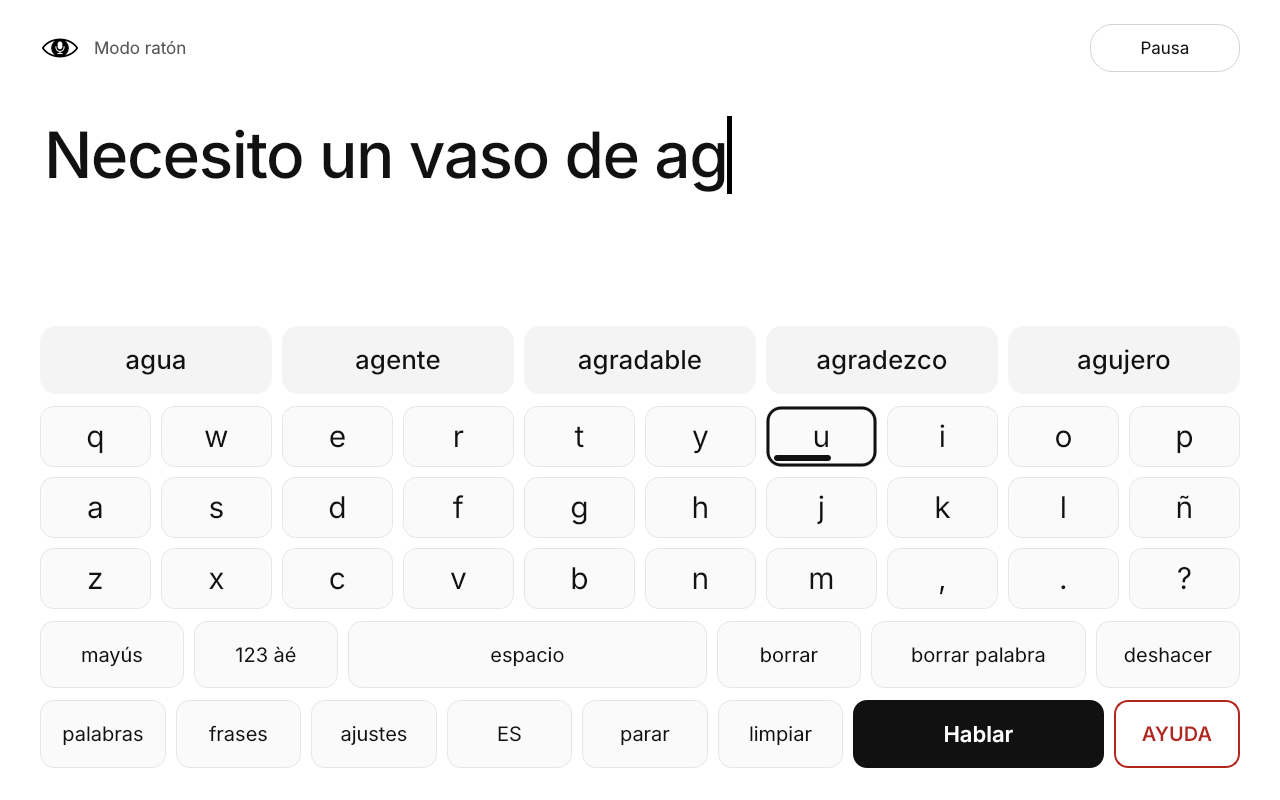
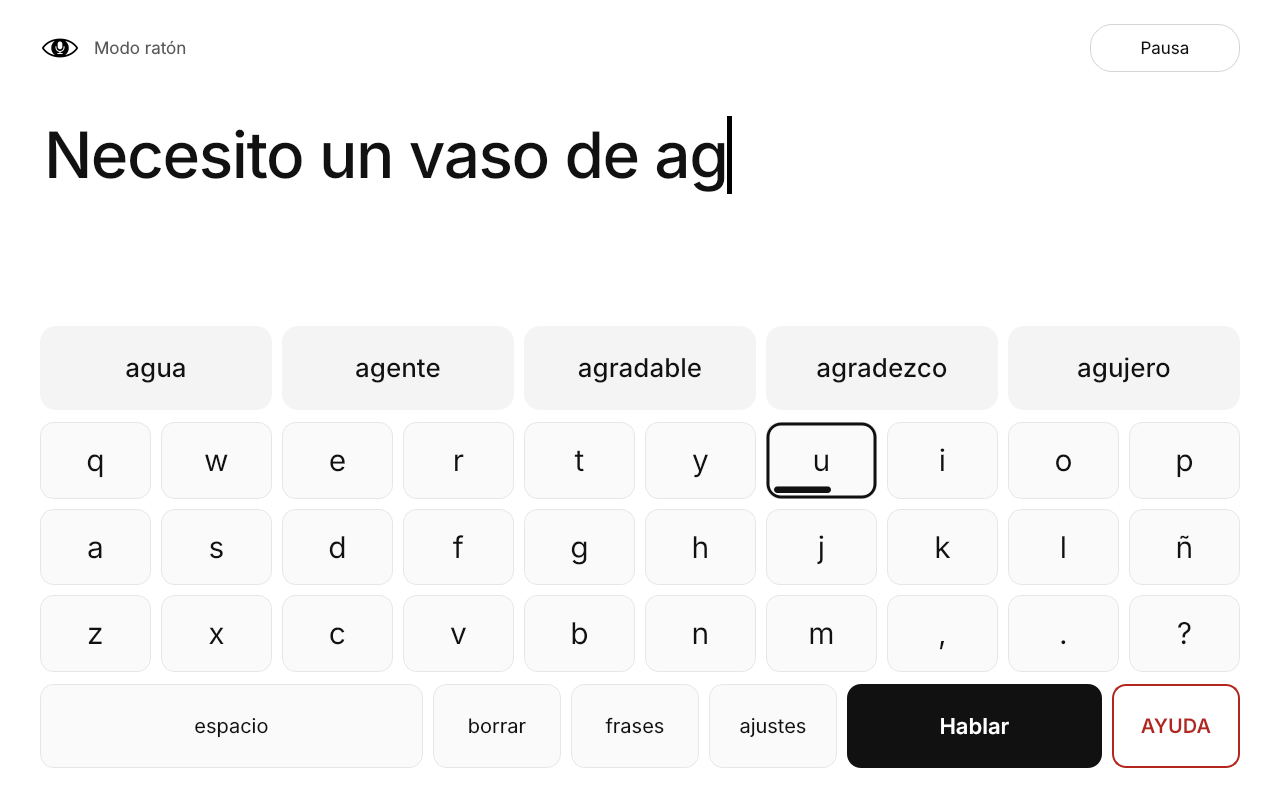
Main screen matches design A: one control row
Space, delete, phrases, settings, Speak (Stop while talking) and HELP.
Shift, symbols, delete word, undo, word mode and clear move to a tools
row in Settings. Version 0.7.0.

Claude-Session: https://claude.ai/code/session_01PSBuc5eMpT53njpukZxYnN

diff --git a/looksay/ui/keyboard.py b/looksay/ui/keyboard.py
@@ -62,33 +62,22 @@ class KeyboardPanel(QWidget):
         self.stack.addWidget(self.words_page)
         root.addWidget(self.stack, 3)
 
-        self.shift_btn = self._button("", "special", "shift")
-        self.symbols_btn = self._button("", "special", "symbols")
+        # One control row, as in the "Papel" design: space, delete, phrases, settings, Speak, HELP.
+        # Speak turns into Stop while the voice is talking. The rarer editing tools (shift, symbols,
+        # delete word, undo, word mode, clear) live in Settings, so the main screen stays calm.
         self.space_btn = self._button("", "special", "space")
         self.backspace_btn = self._button("", "special", "backspace")
-        self.delete_word_btn = self._button("", "special", "delete_word")
-        self.undo_btn = self._button("", "special", "undo")
-        edit_row = QWidget()
-        edit_row.setLayout(_row(
-            [self.shift_btn, self.symbols_btn, self.space_btn, self.backspace_btn, self.delete_word_btn, self.undo_btn],
-            [2, 2, 5, 2, 3, 2],
-        ))
-        root.addWidget(edit_row, 1)
-
-        self.mode_btn = self._button("", "special", "mode")
         self.phrases_btn = self._button("", "special", "phrases")
-        self.speak_btn = self._button("", "primary", "speak")
-        self.stop_btn = self._button("", "special", "stop")
-        self.clear_btn = self._button("", "special", "clear")
-        self.language_btn = self._button("", "special", "language")
         self.settings_btn = self._button("", "special", "settings")
+        self.speak_btn = self._button("", "primary", "speak")
         self.help_btn = self._button("", "emergency", "help")
         control_row = QWidget()
-        control_row.setLayout(_row([
-            self.mode_btn, self.phrases_btn, self.settings_btn, self.language_btn, self.stop_btn, self.clear_btn,
-            self.speak_btn, self.help_btn,
-        ], [1, 1, 1, 1, 1, 1, 2, 1]))
+        control_row.setLayout(_row(
+            [self.space_btn, self.backspace_btn, self.phrases_btn, self.settings_btn, self.speak_btn, self.help_btn],
+            [3, 1, 1, 1, 2, 1],
+        ))
         root.addWidget(control_row, 1)
+        self.speaking = False
 
         self._letter_buttons: list[GazeButton] = []
         self.rebuild_letters()
@@ -128,7 +117,11 @@ class KeyboardPanel(QWidget):
             base = b.property("base")
             b.setText(base.upper() if upper and base.isalpha() else base)
             b.setProperty("value", b.text())
-        self.shift_btn.set_role("active" if upper else "special")
+
+    def set_speaking(self, speaking: bool) -> None:
+        if speaking != self.speaking:
+            self.speaking = speaking
+            self.speak_btn.setText(tr("stop" if speaking else "speak", self.lang))
 
     # ------------------------------------------------------------ state
     def set_language(self, lang: str) -> None:
@@ -167,17 +160,9 @@ class KeyboardPanel(QWidget):
 
     def retranslate(self) -> None:
         lang = self.lang
-        self.shift_btn.setText(tr("shift", lang))
-        self.symbols_btn.setText("abc" if self._symbols else ("123 " + ("àé" if lang != "en" else "?!")))
         self.space_btn.setText(tr("space", lang))
-        self.delete_word_btn.setText(tr("delete_word", lang))
-        self.undo_btn.setText(tr("undo", lang))
-        self.mode_btn.setText(tr("mode_words" if self.mode == "letters" else "mode_letters", lang))
-        self.phrases_btn.setText(tr("phrases", lang))
-        self.speak_btn.setText(tr("speak", lang))
         self.backspace_btn.setText(tr("delete", lang))
-        self.stop_btn.setText(tr("stop", lang))
-        self.clear_btn.setText(tr("clear", lang))
-        self.language_btn.setText(lang.upper())
+        self.phrases_btn.setText(tr("phrases", lang))
         self.settings_btn.setText(tr("settings", lang))
+        self.speak_btn.setText(tr("stop" if self.speaking else "speak", lang))
         self.help_btn.setText(tr("help", lang))

diff --git a/looksay/ui/pages.py b/looksay/ui/pages.py
@@ -130,9 +130,12 @@ class PhrasesPage(QWidget):
 
 
 # -------------------------------------------------------------------- settings
+KEYBOARD_TOOLS = ("shift", "symbols", "delete_word", "undo", "mode", "clear")
+
+
 class SettingsPage(QWidget):
     back = Signal()
-    command = Signal(str)  # calibrate, recenter, diagnostics, export, import, reset_settings, reset_data
+    command = Signal(str)  # key:<tool>, calibrate, recenter, diagnostics, export, import, reset_settings, reset_data
 
     def __init__(self, get_value: Callable[[str], Any], step_value: Callable[[str, int], None],
                  voice_names: Callable[[], list[str]], parent=None):
@@ -142,6 +145,7 @@ class SettingsPage(QWidget):
         self._step = step_value
         self._voice_names = voice_names
         self.lang = "en"
+        self._symbols, self._mode = False, "letters"
         self.group = SETTING_GROUPS[0]
         self.page = 0
 
@@ -183,6 +187,16 @@ class SettingsPage(QWidget):
         self.next_btn = GazeButton("", "small")
         self.prev_btn.clicked.connect(lambda: self._turn(-1))
         self.next_btn.clicked.connect(lambda: self._turn(1))
+        # Typing tools that are not on the main screen; each one returns to the keyboard.
+        self.tool_buttons: dict[str, GazeButton] = {}
+        for name in KEYBOARD_TOOLS:
+            b = GazeButton("", "small")
+            b.clicked.connect(lambda _=False, n=name: self.command.emit("key:" + n))
+            self.tool_buttons[name] = b
+        tools = QWidget()
+        tools.setLayout(_hbox(*self.tool_buttons.values()))
+        root.addWidget(tools, 1)
+
         self.command_buttons: dict[str, GazeButton] = {}
         rows = [[self.prev_btn, self.next_btn], []]
         for i, name in enumerate(("calibrate", "calibrate_head", "recenter", "diagnostics", "export", "import",
@@ -264,7 +278,22 @@ class SettingsPage(QWidget):
         self.next_btn.setText(tr("next_page", lang))
         for name, b in self.command_buttons.items():
             b.setText(tr(name, lang))
+        self.set_tool_state(self._symbols, self._mode)
         self.refresh()
+
+    def set_tool_state(self, symbols: bool, mode: str) -> None:
+        self._symbols, self._mode = symbols, mode
+        lang = self.lang
+        labels = {
+            "shift": tr("shift", lang),
+            "symbols": "abc" if symbols else ("123 " + ("àé" if lang != "en" else "?!")),
+            "delete_word": tr("delete_word", lang),
+            "undo": tr("undo", lang),
+            "mode": tr("mode_words" if mode == "letters" else "mode_letters", lang),
+            "clear": tr("clear", lang),
+        }
+        for name, b in self.tool_buttons.items():
+            b.setText(labels[name])
 
 
 _VALUE_KEYS = {

diff --git a/tests/test_ui.py b/tests/test_ui.py
@@ -77,6 +77,11 @@ def look_at(w, qapp, button, seconds=1.0):
     gaze(w, qapp, 0.5, 0.02, 0.2)  # look away at the canvas (no button)
 
 
+def open_tool(w, qapp, name):
+    look_at(w, qapp, w.keyboard.settings_btn)
+    look_at(w, qapp, w.settings_page.tool_buttons[name])
+
+
 def key(w, value):
     return next(b for b in w.keyboard._letter_buttons if b.property("base") == value)
 
@@ -98,14 +103,14 @@ def test_type_accept_suggestion_and_speak_by_gaze(window, qapp):
 def test_clear_requires_gaze_confirmation(window, qapp):
     w = window
     w.buffer.text = "Some text"
-    look_at(w, qapp, w.keyboard.clear_btn)
+    open_tool(w, qapp, "clear")
     assert w.confirm.isVisible() and w.buffer.text == "Some text"
     # Keys under the overlay must not be selectable.
     look_at(w, qapp, w.keyboard.space_btn)
     assert w.buffer.text == "Some text"
     look_at(w, qapp, w.confirm.no_btn)
     assert not w.confirm.isVisible() and w.buffer.text == "Some text"
-    look_at(w, qapp, w.keyboard.clear_btn)
+    open_tool(w, qapp, "clear")
     look_at(w, qapp, w.confirm.yes_btn)
     assert w.buffer.text == ""
 
@@ -142,18 +147,18 @@ def test_pause_only_allows_resume(window, qapp):
 def test_language_switch_keeps_text_and_changes_layout(window, qapp):
     w = window
     w.buffer.text = "Hello "
-    look_at(w, qapp, w.keyboard.language_btn)
+    w._on_key("language", "")
     assert w.lang == "es" and w.buffer.text == "Hello "
     assert any(b.property("base") == "ñ" for b in w.keyboard._letter_buttons)
     assert w.keyboard.speak_btn.text().endswith("Hablar")
-    look_at(w, qapp, w.keyboard.language_btn)
+    w._on_key("language", "")
     assert w.lang == "ca"
     assert any(b.property("base") == "ç" for b in w.keyboard._letter_buttons)
 
 
 def test_word_mode_and_phrases(window, qapp):
     w = window
-    look_at(w, qapp, w.keyboard.mode_btn)
+    open_tool(w, qapp, "mode")
     assert w.keyboard.mode == "words"
     word = w.keyboard.word_buttons[0]
     text = word.text()

diff --git a/looksay/ui/main_window.py b/looksay/ui/main_window.py
@@ -626,6 +626,7 @@ class MainWindow(QWidget):
 
     def _tick(self) -> None:
         self.ui_fps.tick()
+        self.keyboard.set_speaking(self.speech.is_speaking())
         now = time.monotonic()
         point, source, active, hold = self._current_point(now)
         self._last_source = source
@@ -737,6 +738,7 @@ class MainWindow(QWidget):
         else:
             self.keyboard.set_suggestions(fmt(self.predictor.suggest(prefix, prev, count)), count)
         self.keyboard.update_case(self.buffer.shift_active or (capitalize and not prefix))
+        self.settings_page.set_tool_state(self.keyboard._symbols, self.keyboard.mode)
 
     def _on_key(self, name: str, value: str) -> None:
         if name in CORRECTION_KEYS:
@@ -765,7 +767,10 @@ class MainWindow(QWidget):
             self._reload_phrases()
             self.pages.setCurrentWidget(self.phrases_page)
         elif name == "speak":
-            self.speak()
+            if self.speech.is_speaking():
+                self.speech.stop()
+            else:
+                self.speak()
         elif name == "stop":
             self.speech.stop()
         elif name == "clear":
@@ -839,7 +844,10 @@ class MainWindow(QWidget):
     # ============================================================= commands
     def _on_command(self, name: str) -> None:
         lang = self.lang
-        if name == "calibrate":
+        if name.startswith("key:"):
+            self.show_keyboard()
+            self._on_key(name[4:], "")
+        elif name == "calibrate":
             self.start_calibration("full")
         elif name == "calibrate_head":
             self.start_calibration("head")

diff --git a/looksay/__init__.py b/looksay/__init__.py
@@ -1,4 +1,4 @@
 """LookSay - offline gaze-based communication."""
 
-__version__ = "0.6.1"
+__version__ = "0.7.0"
 APP_NAME = "LookSay"

diff --git a/docs/MANUAL_TESTS.md b/docs/MANUAL_TESTS.md
@@ -10,9 +10,9 @@ screen, and the results (time, errors, comments).
 | 1 | First calibration | Fresh start → Settings ▸ Calibrate (9 points) → follow the dots → Accept by gaze | Finishes in under 30 s; the reported error is shown; the user can select "Accept" by gaze |
 | 2 | 5-point calibration | Settings ▸ Eye tracking ▸ Calibration points = 5 → Calibrate | Works; the gaze cursor follows the gaze over all 4 quadrants |
 | 3 | Typing | Type "I need water" with letters and suggestions only | No physical input; ≤ 2 wrong selections; record the time |
-| 4 | Corrections | Make a typo → ⌫, Del word, Undo | Each control does exactly one step |
+| 4 | Corrections | Make a typo → Delete; Settings → Delete word, Undo | Each control does exactly one step |
 | 5 | Word mode | Switch to Words, compose "I want to sleep" | Words insert with correct spacing and capitals |
-| 6 | Speech | Speak, Stop mid-sentence; Speak mode = Last sentence | Audio starts and stops; only the last sentence is read |
+| 6 | Speech | Speak, then Speak again (it reads Stop) mid-sentence; Speak mode = Last sentence | Audio starts and stops; only the last sentence is read |
 | 7 | Emergency | Select HELP from the keyboard and the first phrase on the phrases page | The emergency phrase is spoken at full volume within the dwell time; nothing is contacted automatically |
 | 8 | Face loss | Turn away or cover the camera while dwelling on a key | The status shows "Face not found"; no selection happens; tracking resumes when the face returns |
 | 9 | Poor lighting | Dim light / strong backlight | Confidence drops and selection pauses rather than selecting wrong keys |
